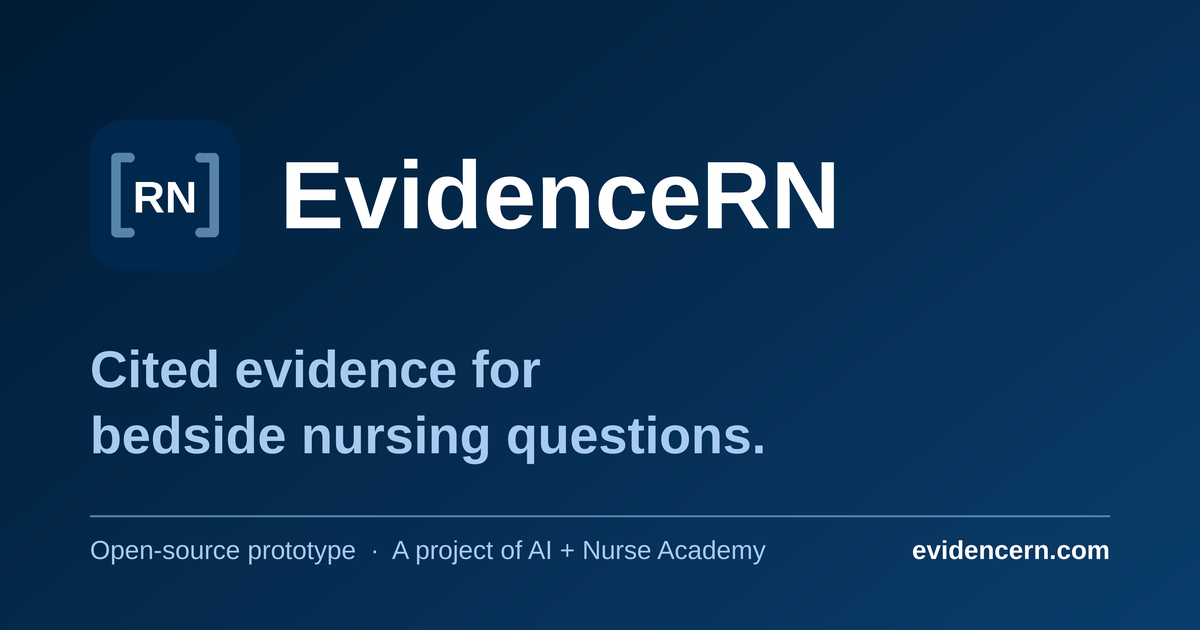
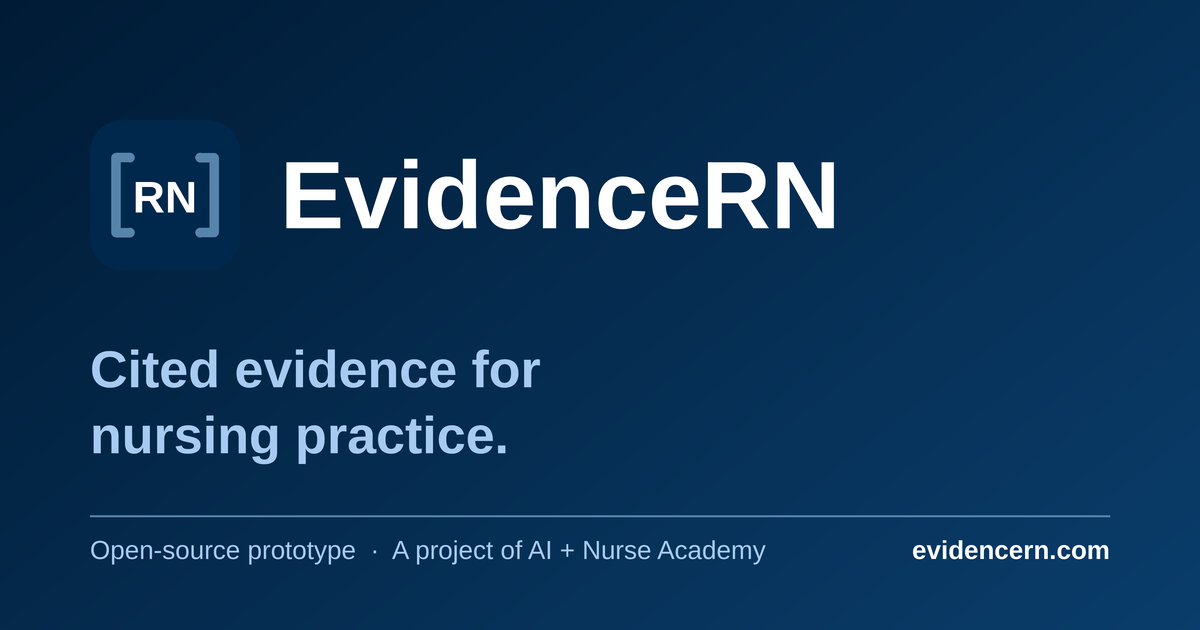
Add files via upload

Changed region(s): [[0.0617, 0.6635, 0.6475, 0.754]]

diff --git a/docs/index.html b/docs/index.html
@@ -3,17 +3,17 @@
 <head>
 <meta charset="UTF-8">
 <meta name="viewport" content="width=device-width, initial-scale=1.0">
-<title>EvidenceRN | Cited evidence for bedside nursing questions</title>
-<meta name="description" content="EvidenceRN is an open-source prototype that answers bedside nursing questions with a cited synthesis of PubMed evidence, labeled by level of evidence, with retraction screening and a citation check on every answer.">
+<title>EvidenceRN | Cited evidence for nursing practice</title>
+<meta name="description" content="EvidenceRN is an open-source prototype that answers nursing questions with a cited synthesis of PubMed evidence, labeled by level of evidence, with retraction screening and a citation check on every answer.">
 <link rel="canonical" href="https://evidencern.com/">
 <meta property="og:type" content="website">
 <meta property="og:url" content="https://evidencern.com/">
-<meta property="og:title" content="EvidenceRN | Cited evidence for bedside nursing questions">
-<meta property="og:description" content="An open-source prototype that answers bedside nursing questions with cited, evidence-labeled PubMed research. Built by a nurse practitioner. Looking for maintainers and clinical reviewers.">
+<meta property="og:title" content="EvidenceRN | Cited evidence for nursing practice">
+<meta property="og:description" content="An open-source prototype that answers nursing questions with cited, evidence-labeled PubMed research. Built by a nurse practitioner. Looking for maintainers and clinical reviewers.">
 <meta property="og:image" content="https://evidencern.com/og-card.png">
 <meta property="og:image:width" content="1200">
 <meta property="og:image:height" content="630">
-<meta property="og:image:alt" content="EvidenceRN: cited evidence for bedside nursing questions. A project of AI + Nurse Academy.">
+<meta property="og:image:alt" content="EvidenceRN: cited evidence for nursing practice. A project of AI + Nurse Academy.">
 <meta name="twitter:card" content="summary_large_image">
 <meta name="twitter:image" content="https://evidencern.com/og-card.png">
 <meta name="theme-color" content="#00284C">
@@ -175,7 +175,7 @@
   <div class="wrap hero-grid">
     <div>
       <span class="kicker">Open-source prototype · v0.5.2</span>
-      <h1>Cited evidence for bedside nursing questions.</h1>
+      <h1>Cited evidence for nursing practice.</h1>
       <p class="lead">Ask a clinical question in plain language. EvidenceRN searches PubMed, screens out retracted research, labels every source by level of evidence, and writes a short answer where each claim links to its source.</p>
       <div class="ctas">
         <a class="btn btn-light" href="https://github.com/EvidenceRN/evidencern">View the code on GitHub</a>
@@ -221,7 +221,7 @@
 <section id="how">
   <div class="wrap">
     <div class="eyebrow">How it works</div>
-    <h2>From a bedside question to a cited answer</h2>
+    <h2>From a clinical question to a cited answer</h2>
     <p class="sub">Each search runs the same four steps, and every step is visible to the person asking.</p>
     <div class="steps">
       <div class="step"><div class="n">1</div><h3>Interprets the question</h3><p>Converts plain language into a PubMed search and shows the exact query it ran, the filters applied, and the search date.</p></div>
@@ -261,7 +261,7 @@
     <div>
       <div class="eyebrow">Why open source</div>
       <h2>Open to examine, test, and improve</h2>
-      <p>EvidenceRN uses public literature, a visible search strategy, labeled evidence levels, retraction screening, and a citation check on every answer. Releasing the code under Apache 2.0 lets the nursing profession examine those choices, test them against real bedside questions, and improve them.</p>
+      <p>EvidenceRN uses public literature, a visible search strategy, labeled evidence levels, retraction screening, and a citation check on every answer. Releasing the code under Apache 2.0 lets the nursing profession examine those choices, test them against real questions from practice, and improve them.</p>
       <p>The full application is one readable HTML file and a small server. Anyone with basic technical skills runs it on a laptop in a few minutes.</p>
       <p>EvidenceRN is a project of <a href="https://www.ainurseacademy.ai">AI + Nurse Academy</a>, which offers nurse-led AI education for nurses and other clinicians.</p>
     </div>
@@ -300,7 +300,7 @@
         <h3>Clinicians and educators</h3>
         <p class="who">Nurses, nurse informaticists, clinical librarians, and EBP faculty</p>
         <ul>
-          <li>Write bedside test questions with the elements a good answer must contain</li>
+          <li>Write test questions from your practice setting, with the elements a good answer must contain</li>
           <li>Report wrong, missing, or unsupported citations</li>
           <li>Curate links to current guidelines and toolkits</li>
           <li>Review answer quality across specialties and settings</li>
